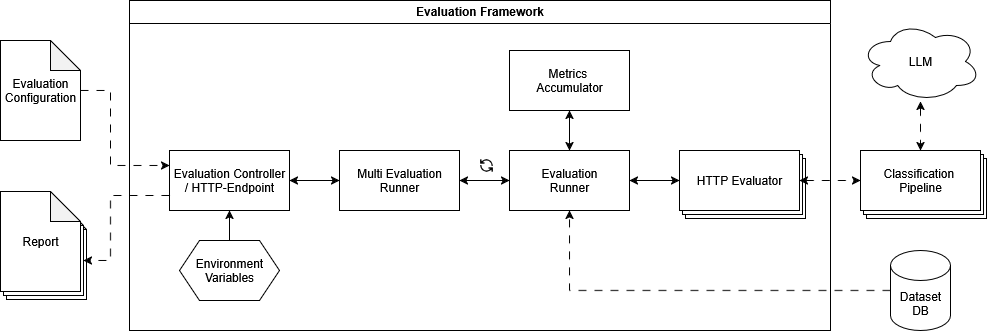
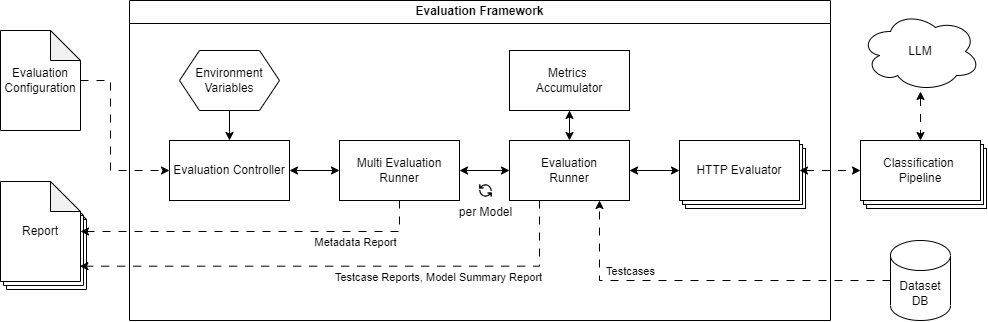
Separate EvaluationController from AnalysisController

diff --git a/gripl/gripl-backend/src/main/kotlin/de/mertendieckmann/griplbackend/adapter/web/AnalysisController.kt b/gripl/gripl-backend/src/main/kotlin/de/mertendieckmann/griplbackend/adapter/web/AnalysisController.kt
@@ -3,10 +3,9 @@ package de.mertendieckmann.griplbackend.adapter.web
 import de.mertendieckmann.griplbackend.adapter.web.utils.ControllerUtils
 import de.mertendieckmann.griplbackend.application.analyzer.AnalyzerFactory
 import de.mertendieckmann.griplbackend.config.LlmConfig
-import de.mertendieckmann.griplbackend.evaluation.MultiEvaluationRunner
-import de.mertendieckmann.griplbackend.model.dto.*
+import de.mertendieckmann.griplbackend.model.dto.AnalysisEndpoint
+import de.mertendieckmann.griplbackend.model.dto.AnalysisResponse
 import io.swagger.v3.oas.annotations.Operation
-import kotlinx.coroutines.flow.Flow
 import org.springframework.beans.factory.annotation.Qualifier
 import org.springframework.core.env.Environment
 import org.springframework.http.HttpStatus
@@ -18,7 +17,7 @@ import reactor.core.publisher.Mono
 import reactor.core.scheduler.Schedulers
 
 @RestController
-@RequestMapping("/gdpr")
+@RequestMapping("/gdpr/analysis")
 @CrossOrigin(
     origins = ["\${app.frontend.base-url}"],
     allowCredentials = "true",
@@ -30,7 +29,6 @@ import reactor.core.scheduler.Schedulers
 )
 class AnalysisController(
     private val analyzerFactory: AnalyzerFactory,
-    private val multiEvaluationRunner: MultiEvaluationRunner,
     private val llmConfig: LlmConfig,
     @Qualifier("analysisEndpoints") private val analysisEndpoints: List<AnalysisEndpoint>,
     private val env: Environment
@@ -40,7 +38,7 @@ class AnalysisController(
         summary = "Get all available analysis endpoints",
         description = "Returns a list of all available analysis endpoints that can be used for GDPR analysis."
     )
-    @GetMapping("/analysis/endpoints", produces = [MediaType.APPLICATION_JSON_VALUE])
+    @GetMapping("/endpoints", produces = [MediaType.APPLICATION_JSON_VALUE])
     fun getAnalysisEndpoints(): ResponseEntity<List<AnalysisEndpoint>> {
         return ResponseEntity(analysisEndpoints, HttpStatus.OK)
     }
@@ -51,7 +49,7 @@ class AnalysisController(
             + " of GDPR-relevant elements found in the BPMN model, including the reasoning for each element."
     )
     @PostMapping(
-        "/analysis/prompt-engineering",
+        "/prompt-engineering",
         consumes = [MediaType.MULTIPART_FORM_DATA_VALUE],
         produces = [MediaType.APPLICATION_JSON_VALUE]
     )
@@ -78,7 +76,7 @@ class AnalysisController(
             + " of GDPR-relevant elements found in the BPMN model, including the reasoning for each element."
     )
     @PostMapping(
-        "/analysis/baseline",
+        "/baseline",
         consumes = [MediaType.MULTIPART_FORM_DATA_VALUE],
         produces = [MediaType.APPLICATION_JSON_VALUE]
     )
@@ -97,51 +95,5 @@ class AnalysisController(
                 analyzer.analyzeBpmnForGdpr(bpmnXml)
             }.subscribeOn(Schedulers.boundedElastic())
         }.map { ResponseEntity.ok(it) }
-    }
-
-    @Operation(
-        summary = "Evaluates the classification algorithm against the dataset",
-        description = "Runs the evaluation of the classification algorithm against all process models inside the dataset and returns a markdown report with the results."
-    )
-    @PostMapping("/evaluation/markdown", produces = [MediaType.TEXT_MARKDOWN_VALUE])
-    suspend fun evaluate(
-        @RequestBody request: MultiEvaluationRequest
-    ): String {
-        val sb = StringBuilder()
-        var currentLabel: String? = null
-        val resolvedRequest = ControllerUtils.resolveEnvironmentVariables(request, env)
-            ?: throw IllegalArgumentException("Invalid request after resolving environment variables.")
-
-        multiEvaluationRunner.runAll(resolvedRequest).collect { envelope ->
-            val (label, report) = envelope
-
-            if (currentLabel != label) {
-                if (currentLabel != null) sb.appendLine()
-                sb.appendLine("# Modell: $label").appendLine()
-                currentLabel = label
-            }
-
-            if (report !is EvaluationReportStepInfo) {
-                val md = report.toMarkdown()
-                if (md.isNotBlank()) {
-                    sb.appendLine(md).appendLine()
-                }
-            }
-        }
-
-        return sb.toString().trimEnd()
-    }
-
-    @Operation(
-        summary = "Evaluates the classification algorithm against the dataset",
-        description = "Runs the evaluation of the classification algorithm against all process models inside the dataset and returns a JSON report with the results in a stream."
-    )
-    @PostMapping("/evaluation/stream", produces = [MediaType.APPLICATION_NDJSON_VALUE])
-    suspend fun evaluateStream(
-        @RequestBody request: MultiEvaluationRequest
-    ): Flow<ModelReportEnvelope> {
-        val resolvedRequest = ControllerUtils.resolveEnvironmentVariables(request, env)
-            ?: throw IllegalArgumentException("Invalid request after resolving environment variables.")
-        return multiEvaluationRunner.runAll(resolvedRequest)
     }
 }

diff --git a/gripl/gripl-backend/src/main/kotlin/de/mertendieckmann/griplbackend/adapter/web/EvaluationController.kt b/gripl/gripl-backend/src/main/kotlin/de/mertendieckmann/griplbackend/adapter/web/EvaluationController.kt
@@ -1,0 +1,75 @@
+package de.mertendieckmann.griplbackend.adapter.web
+
+import de.mertendieckmann.griplbackend.adapter.web.utils.ControllerUtils
+import de.mertendieckmann.griplbackend.evaluation.MultiEvaluationRunner
+import de.mertendieckmann.griplbackend.model.dto.EvaluationReportStepInfo
+import de.mertendieckmann.griplbackend.model.dto.ModelReportEnvelope
+import de.mertendieckmann.griplbackend.model.dto.MultiEvaluationRequest
+import io.swagger.v3.oas.annotations.Operation
+import kotlinx.coroutines.flow.Flow
+import org.springframework.core.env.Environment
+import org.springframework.http.MediaType
+import org.springframework.web.bind.annotation.*
+
+@RestController
+@RequestMapping("/gdpr/evaluation")
+@CrossOrigin(
+    origins = ["\${app.frontend.base-url}"],
+    allowCredentials = "true",
+    allowedHeaders = ["*"],
+    methods = [
+        RequestMethod.GET,
+        RequestMethod.POST,
+    ]
+)
+class EvaluationController(
+    private val multiEvaluationRunner: MultiEvaluationRunner,
+    private val env: Environment
+) {
+
+    @Operation(
+        summary = "Evaluates the classification algorithm against the dataset",
+        description = "Runs the evaluation of the classification algorithm against all process models inside the dataset and returns a markdown report with the results."
+    )
+    @PostMapping("/markdown", produces = [MediaType.TEXT_MARKDOWN_VALUE])
+    suspend fun evaluate(
+        @RequestBody request: MultiEvaluationRequest
+    ): String {
+        val sb = StringBuilder()
+        var currentLabel: String? = null
+        val resolvedRequest = ControllerUtils.resolveEnvironmentVariables(request, env)
+            ?: throw IllegalArgumentException("Invalid request after resolving environment variables.")
+
+        multiEvaluationRunner.runAll(resolvedRequest).collect { envelope ->
+            val (label, report) = envelope
+
+            if (currentLabel != label) {
+                if (currentLabel != null) sb.appendLine()
+                sb.appendLine("# Modell: $label").appendLine()
+                currentLabel = label
+            }
+
+            if (report !is EvaluationReportStepInfo) {
+                val md = report.toMarkdown()
+                if (md.isNotBlank()) {
+                    sb.appendLine(md).appendLine()
+                }
+            }
+        }
+
+        return sb.toString().trimEnd()
+    }
+
+    @Operation(
+        summary = "Evaluates the classification algorithm against the dataset",
+        description = "Runs the evaluation of the classification algorithm against all process models inside the dataset and returns a JSON report with the results in a stream."
+    )
+    @PostMapping("/stream", produces = [MediaType.APPLICATION_NDJSON_VALUE])
+    suspend fun evaluateStream(
+        @RequestBody request: MultiEvaluationRequest
+    ): Flow<ModelReportEnvelope> {
+        val resolvedRequest = ControllerUtils.resolveEnvironmentVariables(request, env)
+            ?: throw IllegalArgumentException("Invalid request after resolving environment variables.")
+        return multiEvaluationRunner.runAll(resolvedRequest)
+    }
+}

diff --git a/gripl/gripl-backend/src/main/kotlin/de/mertendieckmann/griplbackend/ai/PromptBpmnAnalysisAiServiceFactory.kt b/gripl/gripl-backend/src/main/kotlin/de/mertendieckmann/griplbackend/ai/PromptBpmnAnalysisAiServiceFactory.kt
@@ -39,7 +39,7 @@ object PromptBpmnAnalysisAiServiceFactory {
 
                     Do **not** classify an activity as GDPR‑relevant when it only performs administrative or logistic tasks that do not involve personal data. Examples include picking or packing goods, routing vehicles without using specific addresses, printing generic pick lists, moving items in inventory, or checking if a document exists without viewing its contents. Likewise, activities using truly aggregated or irreversibly anonymised data can be ignored if no individual can be reidentified.
 
-                    In your output, return only the IDs of activities you classify as GDPR‑relevant. For each, provide a clear explanation using the activity’s name and description to justify why it processes personal data. Do not reference element IDs in your explanation; use the activity names instead. Exclude from your result any activities that do not process personal data and any elements that are not activity/task elements.
+                    In your output, return only the IDs of activities you classify as GDPR‑relevant. For each, provide a clear explanation in german using the activity’s name and description to justify why it processes personal data. Do not reference element IDs in your explanation; use the activity names instead. Exclude from your result any activities that do not process personal data and any elements that are not activity/task elements.
                 """.trimIndent()
             )
         })
